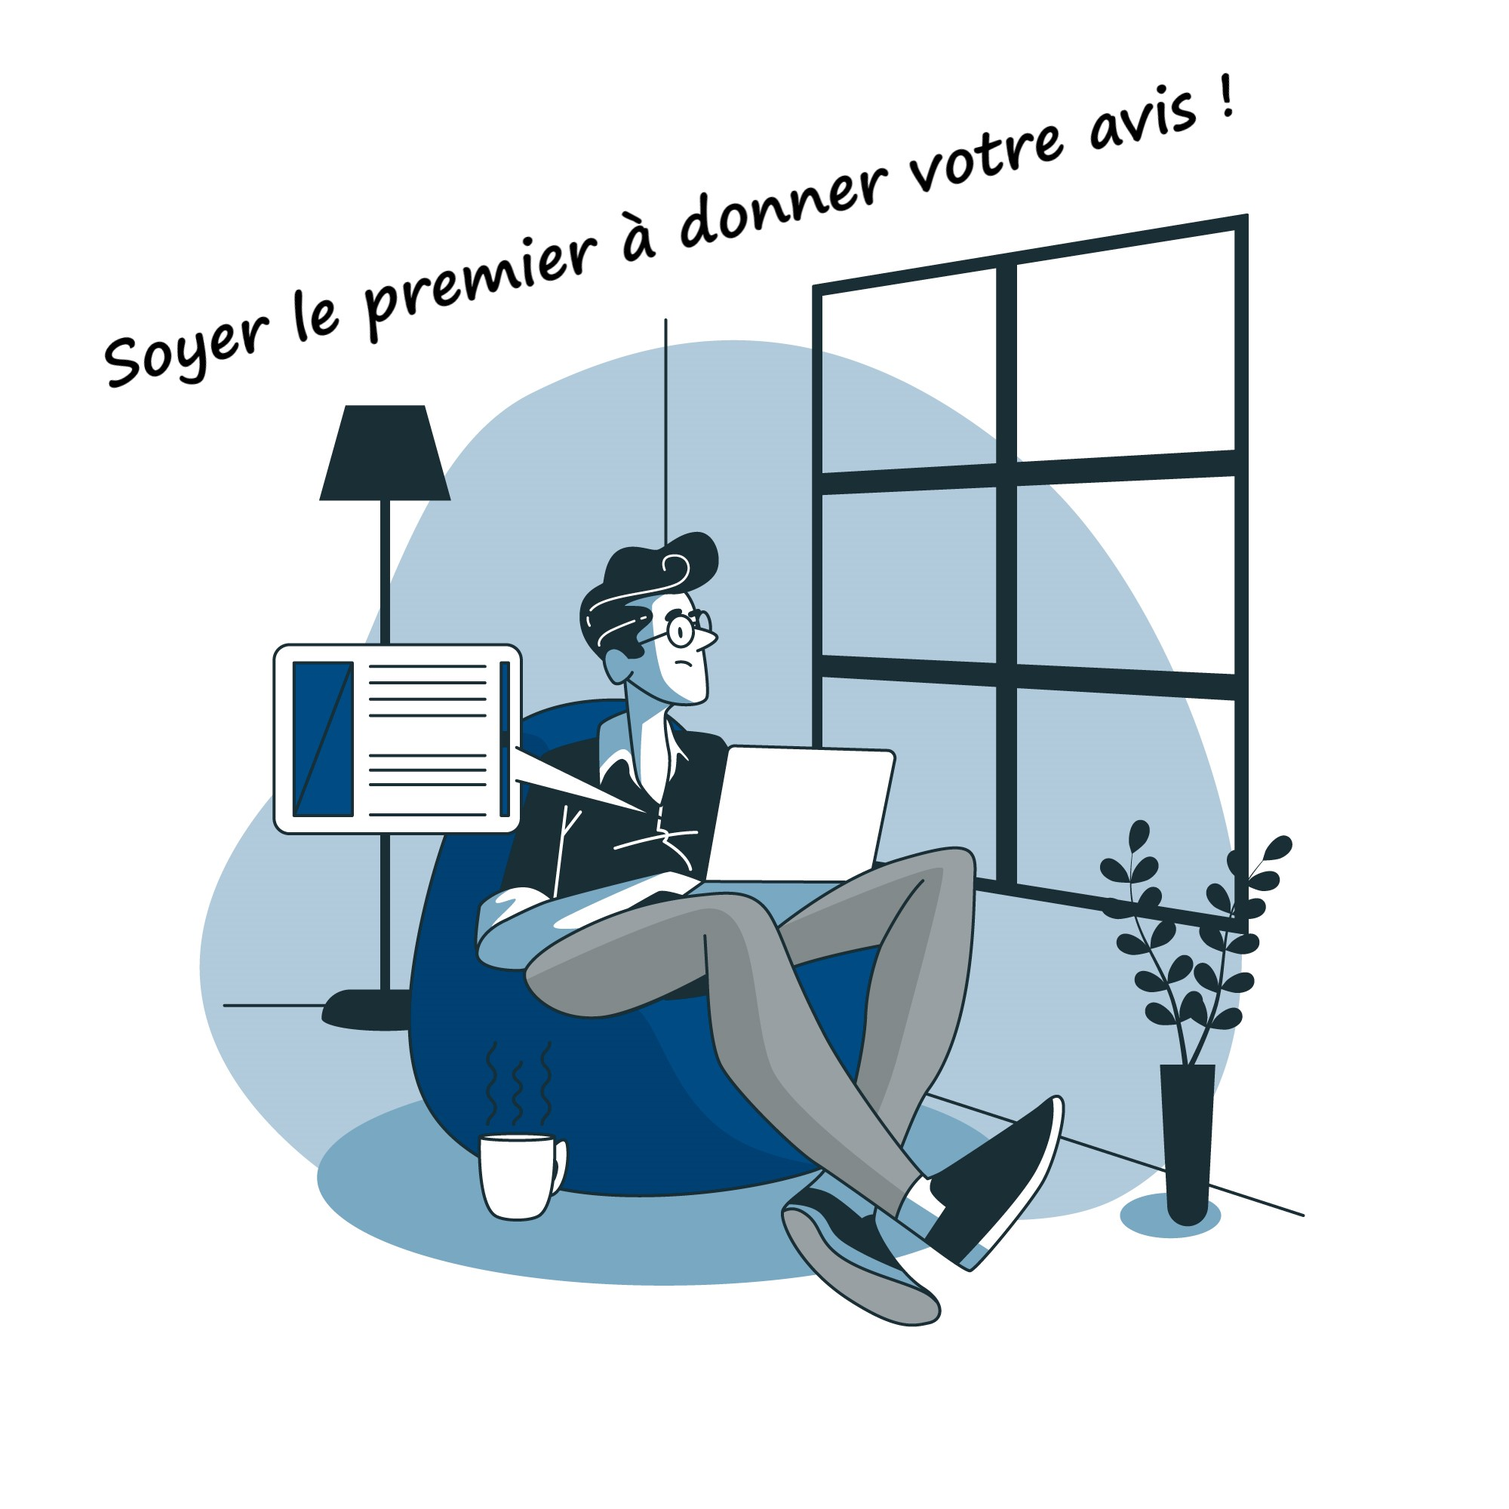
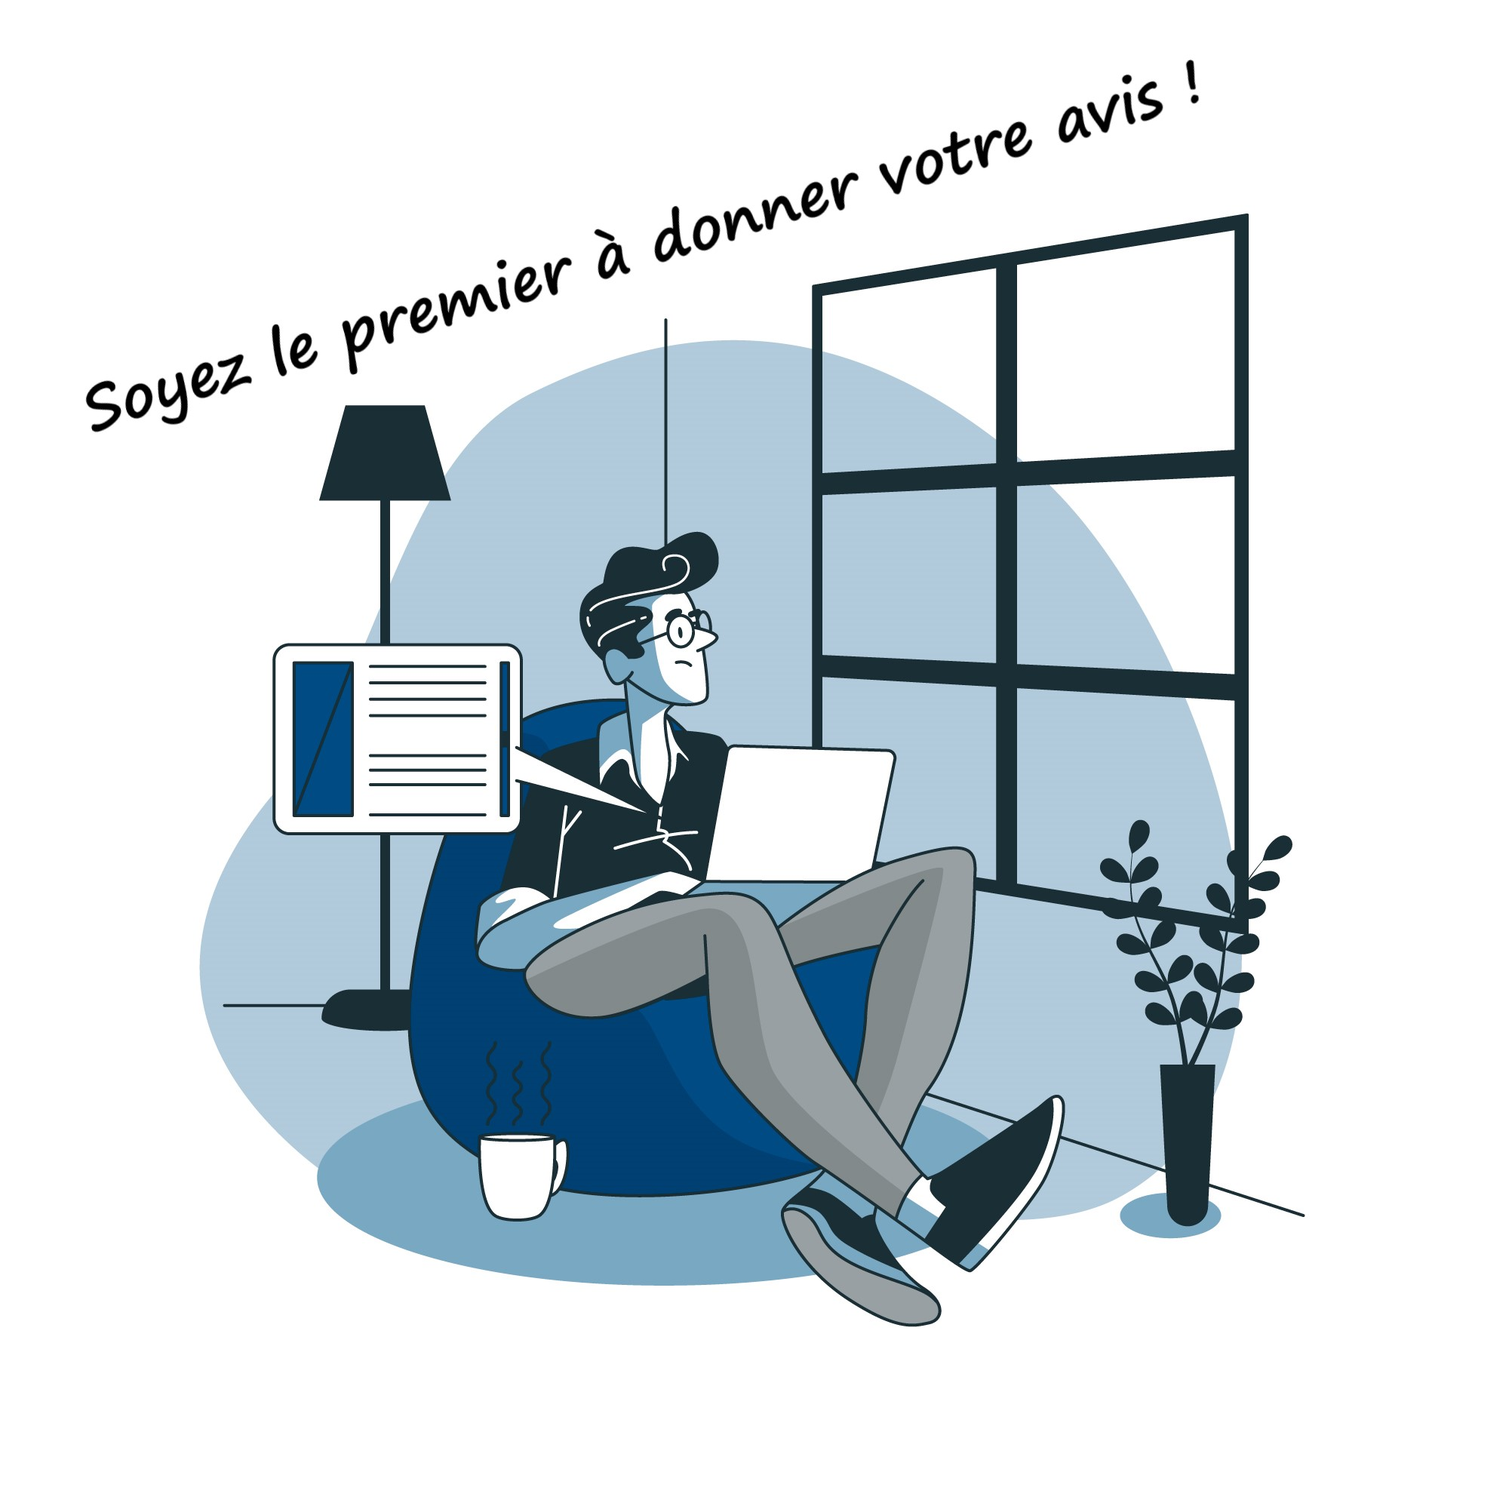
fixing some bugs

Changed region(s): [[0.062, 0.031, 0.806, 0.279]]

diff --git a/resources/views/welcome.blade.php b/resources/views/welcome.blade.php
@@ -92,154 +92,46 @@
 <!-- banner part start-->
 
 <!-- feature_part start-->
-<section class="product_list padding_top">
+<section class="feature_part padding_top">
     <div class="container">
         <div class="row justify-content-center">
             <div class="col-lg-8">
                 <div class="section_tittle text-center">
-                    <h2 style="margin-left: 25%;">Derniéres nouveautés</h2>
+                    <h2>Dernieres nouveautés</h2>
                 </div>
             </div>
         </div>
-        <!-- <div class="row align-items-center justify-content-between">
+        <div class="row align-items-center justify-content-between">
             <div class="col-lg-7 col-sm-6">
                 <div class="single_feature_post_text">
                     <p>Qualité premium</p>
-                    <h3>
-                        Nouveauté chez
-                        <br>
-                        Mora
-                    </h3>
-                    <a href="/Produit/6" class="feature_btn">Explorer <i class="fas fa-play"></i></a>
-                    <img src="img/bedMoraTransparent.png" alt="" style="width: 70%;border-radius: 30%;bottom: 50px;">
+                    <h3>Chez Mora</h3>
+                    <a href="#" class="feature_btn">Explorer ! <i class="fas fa-play"></i></a>
+                    <img src="img/feature/feature_1.png" alt="">
                 </div>
             </div>
             <div class="col-lg-5 col-sm-6">
                 <div class="single_feature_post_text">
                     <p>Qualité premium</p>
-                    <h3>
-                        Nouveauté chez
-                        <br>
-                        Naturel
-                    </h3>
-                    <a href="#" class="feature_btn">Explorer <i class="fas fa-play"></i></a>
-                    <img src="img/serviettesTransparent.png" alt="" style="width: 70%;bottom: 50px;">
+                    <h3>Chez Piell</h3>
+                    <a href="#" class="feature_btn">Explorer ! <i class="fas fa-play"></i></a>
+                    <img src="img/feature/feature_2.png" alt="">
                 </div>
             </div>
             <div class="col-lg-5 col-sm-6">
                 <div class="single_feature_post_text">
                     <p>Qualité premium</p>
-                    <h3>
-                        Nouveauté chez
-                        <br>
-                        Irina Home
-                    </h3>
-                    <a href="#" class="feature_btn">Explorer <i class="fas fa-play"></i></a>
+                    <h3>Chez Viven</h3>
+                    <a href="#" class="feature_btn">Explorer ! <i class="fas fa-play"></i></a>
                     <img src="img/feature/feature_3.png" alt="">
                 </div>
             </div>
             <div class="col-lg-7 col-sm-6">
                 <div class="single_feature_post_text">
                     <p>Qualité premium</p>
-                    <h3>
-                        Nouveauté chez
-                        <br>
-                        Bait & Gan
-                    </h3>
-                    <a href="#" class="feature_btn">Explorer <i class="fas fa-play"></i></a>
+                    <h3>Chez Irina Home</h3>
+                    <a href="#" class="feature_btn">Explorer ! <i class="fas fa-play"></i></a>
                     <img src="img/feature/feature_4.png" alt="">
-                </div>
-            </div>
-        </div> -->
-        <div class="row">
-            <div class="col-lg-12">
-                <div class="product_list_slider owl-carousel">
-                    <div class="single_product_list_slider">
-                        <h3>Nouveauté chez <strong style="text-decoration: underline;">Mora</strong></h3>
-                        <br>
-                        <div class="row align-items-center justify-content-between">
-                            @foreach($produits as $prod)
-                            <div class="col-lg-3 col-sm-6">
-                                <div class="single_product_item">
-                                    <img src='../images/{{ collect(DB::select("select chemin_photo from photo where photo.produit_ = $prod->id_produit limit 1"))->first()->chemin_photo }}' alt="">
-                                    <div class="single_product_text">
-                                        <span onclick="window.location.href='/Produit/'+ {{$prod->id_produit}}" style="cursor: pointer;">
-                                            <h4>
-                                                {{$prod->nom_produit}}
-                                            </h4>
-                                        </span>
-                                        <h3>
-                                            @if(isset(collect(DB::select("select carateristique.prix from produit inner join carateristique on carateristique.produit_ = produit.id_produit where carateristique.produit_ = $prod->id_produit order by carateristique.prix asc limit 1"))->first()->prix))
-                                            {{ collect(DB::select("select carateristique.prix from produit inner join carateristique on carateristique.produit_ = produit.id_produit where carateristique.produit_ = $prod->id_produit order by carateristique.prix asc limit 1"))->first()->prix }}
-                                            Dhs
-                                            @endif
-                                        </h3>
-                                        <a style="cursor: pointer;z-index: 100;" id='{{collect(DB::select("select carateristique.id_caractere from produit inner join  carateristique on carateristique.produit_ = produit.id_produit where carateristique.produit_ = $prod->id_produit order by carateristique.prix asc limit 1"))->first()->id_caractere }}' class="add_cart">+ Au panier</a>
-                                    </div>
-                                </div>
-                            </div>
-                            @endforeach
-
-                        </div>
-                    </div>
-                    <div class="single_product_list_slider">
-                        <h3>Nouveauté chez <strong style="text-decoration: underline;">Irina Home</strong> </h3>
-                        <br>
-                        <div class="row align-items-center justify-content-between">
-
-                            @foreach($produits as $prod)
-                            <div class="col-lg-3 col-sm-6">
-                                <div class="single_product_item">
-                                    <img src='../images/{{ collect(DB::select("select chemin_photo from photo where photo.produit_ = $prod->id_produit limit 1"))->first()->chemin_photo }}' alt="">
-                                    <div class="single_product_text">
-                                        <span onclick="window.location.href='/Produit/'+ {{$prod->id_produit}}" style="cursor: pointer;">
-                                            <h4>
-                                                {{$prod->nom_produit}}
-                                            </h4>
-                                        </span>
-                                        <h3>
-                                            @if(isset(collect(DB::select("select carateristique.prix from produit inner join carateristique on carateristique.produit_ = produit.id_produit where carateristique.produit_ = $prod->id_produit order by carateristique.prix asc limit 1"))->first()->prix))
-                                            {{ collect(DB::select("select carateristique.prix from produit inner join carateristique on carateristique.produit_ = produit.id_produit where carateristique.produit_ = $prod->id_produit order by carateristique.prix asc limit 1"))->first()->prix }}
-                                            Dhs
-                                            @endif
-                                        </h3>
-                                        <a style="cursor: pointer;z-index: 100;" id='{{collect(DB::select("select carateristique.id_caractere from produit inner join  carateristique on carateristique.produit_ = produit.id_produit where carateristique.produit_ = $prod->id_produit order by carateristique.prix asc limit 1"))->first()->id_caractere }}' class="add_cart">+ Au panier</a>
-                                    </div>
-                                </div>
-                            </div>
-                            @endforeach
-
-                        </div>
-                    </div>
-                    <div class="single_product_list_slider">
-                        <h3>Nouveauté chez <strong style="text-decoration: underline;">Bait & Gan</strong></h3>
-                        <br>
-                        <div class="row align-items-center justify-content-between">
-
-                            @foreach($produits as $prod)
-                            <div class="col-lg-3 col-sm-6">
-                                <div class="single_product_item">
-                                    <img src='../images/{{ collect(DB::select("select chemin_photo from photo where photo.produit_ = $prod->id_produit limit 1"))->first()->chemin_photo }}' alt="">
-                                    <div class="single_product_text">
-                                        <span onclick="window.location.href='/Produit/'+ {{$prod->id_produit}}" style="cursor: pointer;">
-                                            <h4>
-                                                {{$prod->nom_produit}}
-                                            </h4>
-                                        </span>
-                                        <h3>
-                                            @if(isset(collect(DB::select("select carateristique.prix from produit inner join carateristique on carateristique.produit_ = produit.id_produit where carateristique.produit_ = $prod->id_produit order by carateristique.prix asc limit 1"))->first()->prix))
-                                            {{ collect(DB::select("select carateristique.prix from produit inner join carateristique on carateristique.produit_ = produit.id_produit where carateristique.produit_ = $prod->id_produit order by carateristique.prix asc limit 1"))->first()->prix }}
-                                            Dhs
-                                            @endif
-                                        </h3>
-                                        <a style="cursor: pointer;z-index: 100;" id='{{collect(DB::select("select carateristique.id_caractere from produit inner join  carateristique on carateristique.produit_ = produit.id_produit where carateristique.produit_ = $prod->id_produit order by carateristique.prix asc limit 1"))->first()->id_caractere }}' class="add_cart">+ Au panier</a>
-                                    </div>
-                                </div>
-                            </div>
-                            @endforeach
-
-                        </div>
-                    </div>
                 </div>
             </div>
         </div>
@@ -500,6 +392,9 @@
                         align: "center",
                         verticalAlign: "top"
                     });
+                    document.getElementsByTagName("head")[0].insertAdjacentHTML(
+                        "beforeend",
+                        "<style> .main_menu .cart i:after {content : '" + data + "'}</style>");
                 }
             });
 

diff --git a/resources/views/layout/app.blade.php b/resources/views/layout/app.blade.php
@@ -81,8 +81,6 @@
         .main_menu .cart i:after {
             content : "{{ App\Http\Controllers\ClientPagesController::nbrPanier() }}"
         }
-
-        /*  */
     </style>
 
     @section('linkcss')
@@ -141,25 +139,12 @@
                                                     {{ $marque->nom_marque }}
                                                     <span class="caret"></span>
                                                 </a>
-                                                <ul class="dropdown-menu-level2" style="background-color: #d387ab;background-image: linear-gradient(315deg, #d387ab 0%, #b279a7 74%);border-radius: 5px;">
-                                                    @foreach(
-                                                    DB::select("select type_produit.id_type , type_produit.libelle_type from marque inner join type_produit ON type_produit.marque_ = marque.id_marque where marque.id_marque = $marque->id_marque")
-                                                    as
-                                                    $type_prod
-                                                    )
-                                                    <li>
-                                                        <a style="padding-left: 6px;" tabindex="-1" href="#">
-                                                            {{ $type_prod->libelle_type }}
-                                                        </a>
-                                                    </li>
-                                                    @endforeach
-                                                </ul>
                                                 <hr style="margin: 3px;">
                                             </li>
                                             @endif
                                             @endforeach
                                             <li class="dropdown-submenu" style="padding-left: 9px;">
-                                                <a class="" tabindex="-1" href="/Catalogue">
+                                                <a class="" tabindex="-1" href="{{ url('/Catalogue') }}">
                                                     Tous nos produits !
                                                     <span class="caret"></span>
                                                 </a>
@@ -294,7 +279,7 @@
                         <span aria-hidden="true">&times;</span>
                     </button>
                 </div>
-                <form action="" method="Post" autocomplete="off" id="formLogin">
+                <form action="{{ url('login') }}" method="Post" autocomplete="off" id="formLogin">
                     <div class="modal-body">
                         @csrf
                         <div class="form-group">
@@ -440,10 +425,10 @@
         $(".owl-prev").html("précedent");
         $(".owl-next").html("suivant");
 
-        var action = location.pathname.substring(location.pathname.lastIndexOf("/") + 1);
-        action === "" ?
-            document.getElementById('formLogin').action = "login-page=" + "home" :
-            document.getElementById('formLogin').action = "login-page=" + action;
+        // var action = location.pathname.substring(location.pathname.lastIndexOf("/") + 1);
+        // action === "" ?
+        //     document.getElementById('formLogin').action = "login-page=" + "home" :
+        //     document.getElementById('formLogin').action = "login-page=" + action;
     </script>
     <script>
         $(document).ready(function() {
@@ -453,26 +438,6 @@
                 e.preventDefault();
             });
 
-            // $('.dropdown-submenu a.test').on("mouseover", function(e) {
-            //     $(this).next('ul').toggle();
-            //     e.stopPropagation();
-            //     e.preventDefault();
-            // });
-            //
-            // $('.dropdown-submenu a.test').on("mouseout", function(e) {
-            //     // $(this).next('ul').toggle();
-            //     // e.stopPropagation();
-            //     // e.preventDefault();
-            //     if ($(this).next('ul').is(':hover')) {
-            //         $(this).next('ul').toggle();
-            //         e.stopPropagation();
-            //         e.preventDefault();
-            //     }
-            // });
-
-            // $(".dropdown-menu-level2").on("mouseout", function(e) {
-            //     $('.dropdown-submenu a.test').mouseout();
-            // });
         });
     </script>
 </body>

diff --git a/resources/views/single-product.blade.php b/resources/views/single-product.blade.php
@@ -290,6 +290,8 @@
       <div class="tab-pane fade" id="contact" role="tabpanel" aria-labelledby="contact-tab">
         <div class="row">
           <div class="col-lg-6">
+            @if(count($commentaires) != 0)
+            <br>
             <div class="comment_list">
 
               @foreach($commentaires as $avis)
@@ -314,8 +316,13 @@
                 </p>
               </div>
               @endforeach
-
             </div>
+
+            @else
+            <div class="review_list">
+              <img src="{{ url('img/commenaire.jpg') }}">
+            </div>
+            @endif
           </div>
           <div class="col-lg-6">
             <div class="review_box">
@@ -434,7 +441,7 @@
               </div>
             </div>
 
-            @if(false)
+            @if(count($demontrations) != 0)
             <br>
             <div class="review_list">
 
@@ -458,12 +465,11 @@
               @endforeach
 
             </div>
-            @endif
-            <!-- <h3>Soyer le premier à donner votre avis !</h3> -->
+            @else
             <div class="review_list">
               <img src="{{ url('img/commenaire.jpg') }}">
             </div>
-
+            @endif
           </div>
           <div class="col-lg-6">
             <div class="review_box">

diff --git a/app/Http/Controllers/ClientPagesController.php b/app/Http/Controllers/ClientPagesController.php
@@ -70,9 +70,10 @@ class ClientPagesController extends Controller
                             'personne_' => $userConnected,
                             'produit_' => $produit,
                             'statut_commande' => 'En attente',
-                            'est_delivre' => 'false'
+                            'est_delivre' => 0
                         )
                     );
+                    // echo "user : $userConnected | nbr : $nbr | produit : '$produit'";
                 }
             } else {
                 if (!session()->has("produits"))
@@ -86,7 +87,7 @@ class ClientPagesController extends Controller
             }
             // \Session::forget("produits");
 
-            echo json_encode("success");
+            echo json_encode($this->nbrPanier());
         }
     }
 
@@ -186,6 +187,11 @@ class ClientPagesController extends Controller
                 $nbr += session()->get('produits')['' . $prod];
             }
         return $nbr;
+    }
+
+    public function Panier()
+    {
+        return view('cart');
     }
 
     public function StoreCommentaire(Request $request)

diff --git a/app/Http/Controllers/AuthController.php b/app/Http/Controllers/AuthController.php
@@ -21,7 +21,7 @@ class AuthController extends Controller
         return false;
     }
 
-    public function AuthentificatedGoingToPage(Request $request, $page)
+    public function AuthentificatedGoingToPage(Request $request)
     {
         $this->VerifyCredentials($request);
         // if (AuthController::IsAuthentificated())
@@ -31,10 +31,12 @@ class AuthController extends Controller
         //         return \redirect("/");
         // else
         //     return \redirect("/");
-        if ($page == "home")
-            return \redirect("/");
-        else
-            return \redirect($page);
+
+        // if ($page == "home")
+        //     return \redirect("/");
+        // else
+        //     return \redirect($page);
+        return redirect(url()->previous());
     }
 
     public static function IsAuthentificated()

diff --git a/routes/web.php b/routes/web.php
@@ -17,9 +17,7 @@ use Illuminate\Support\Facades\Route;
 //     return view('blog');
 // });
 
-Route::get('/Panier', function () { //todo : transférer en controller !
-    return view('cart');
-});
+Route::get('/Panier', 'ClientPagesController@Panier');
 
 Route::get('/Catalogue', 'ClientPagesController@Category');
 
@@ -54,8 +52,7 @@ Route::get('/element', function () {
 // Front office
 Route::get('/', 'ClientPagesController@Accueil');
 
-
-route::post('login-page={page}', 'AuthController@AuthentificatedGoingToPage');
+route::post('login', 'AuthController@AuthentificatedGoingToPage');
 route::get('logout', 'AuthController@LogOut');
 
 Route::get('/Produit/{product}', 'ClientPagesController@ProduitOverview');
